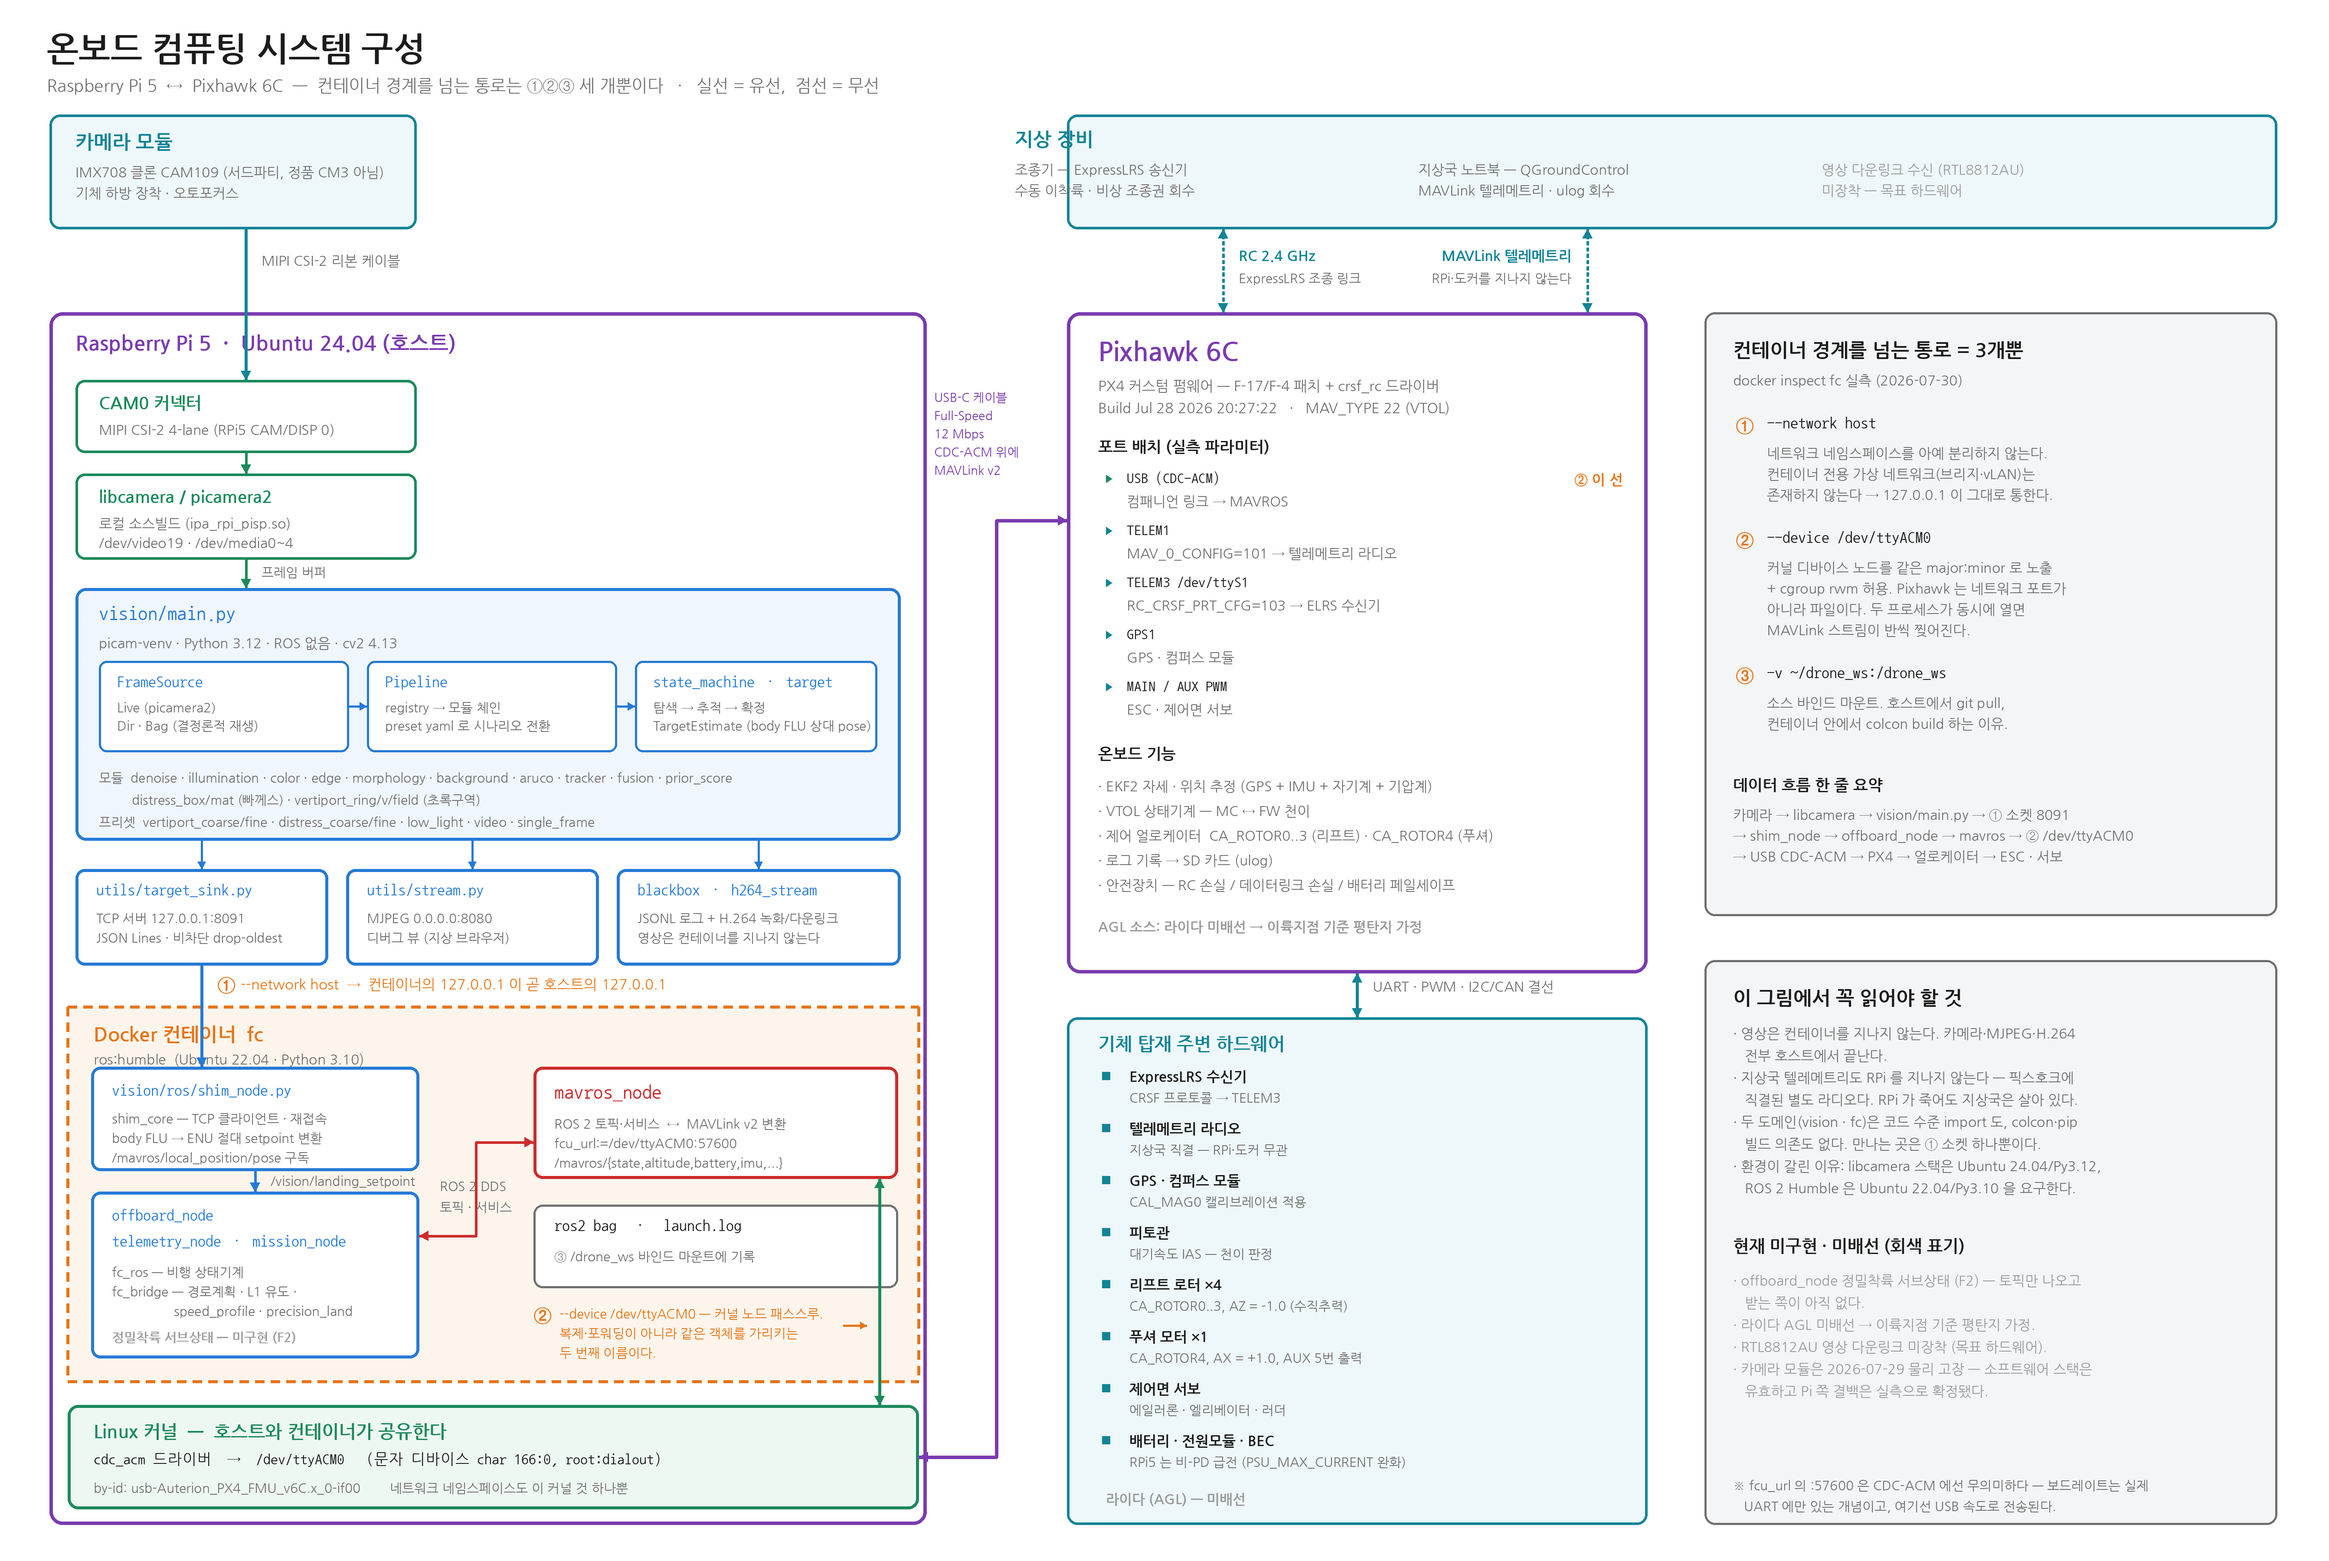
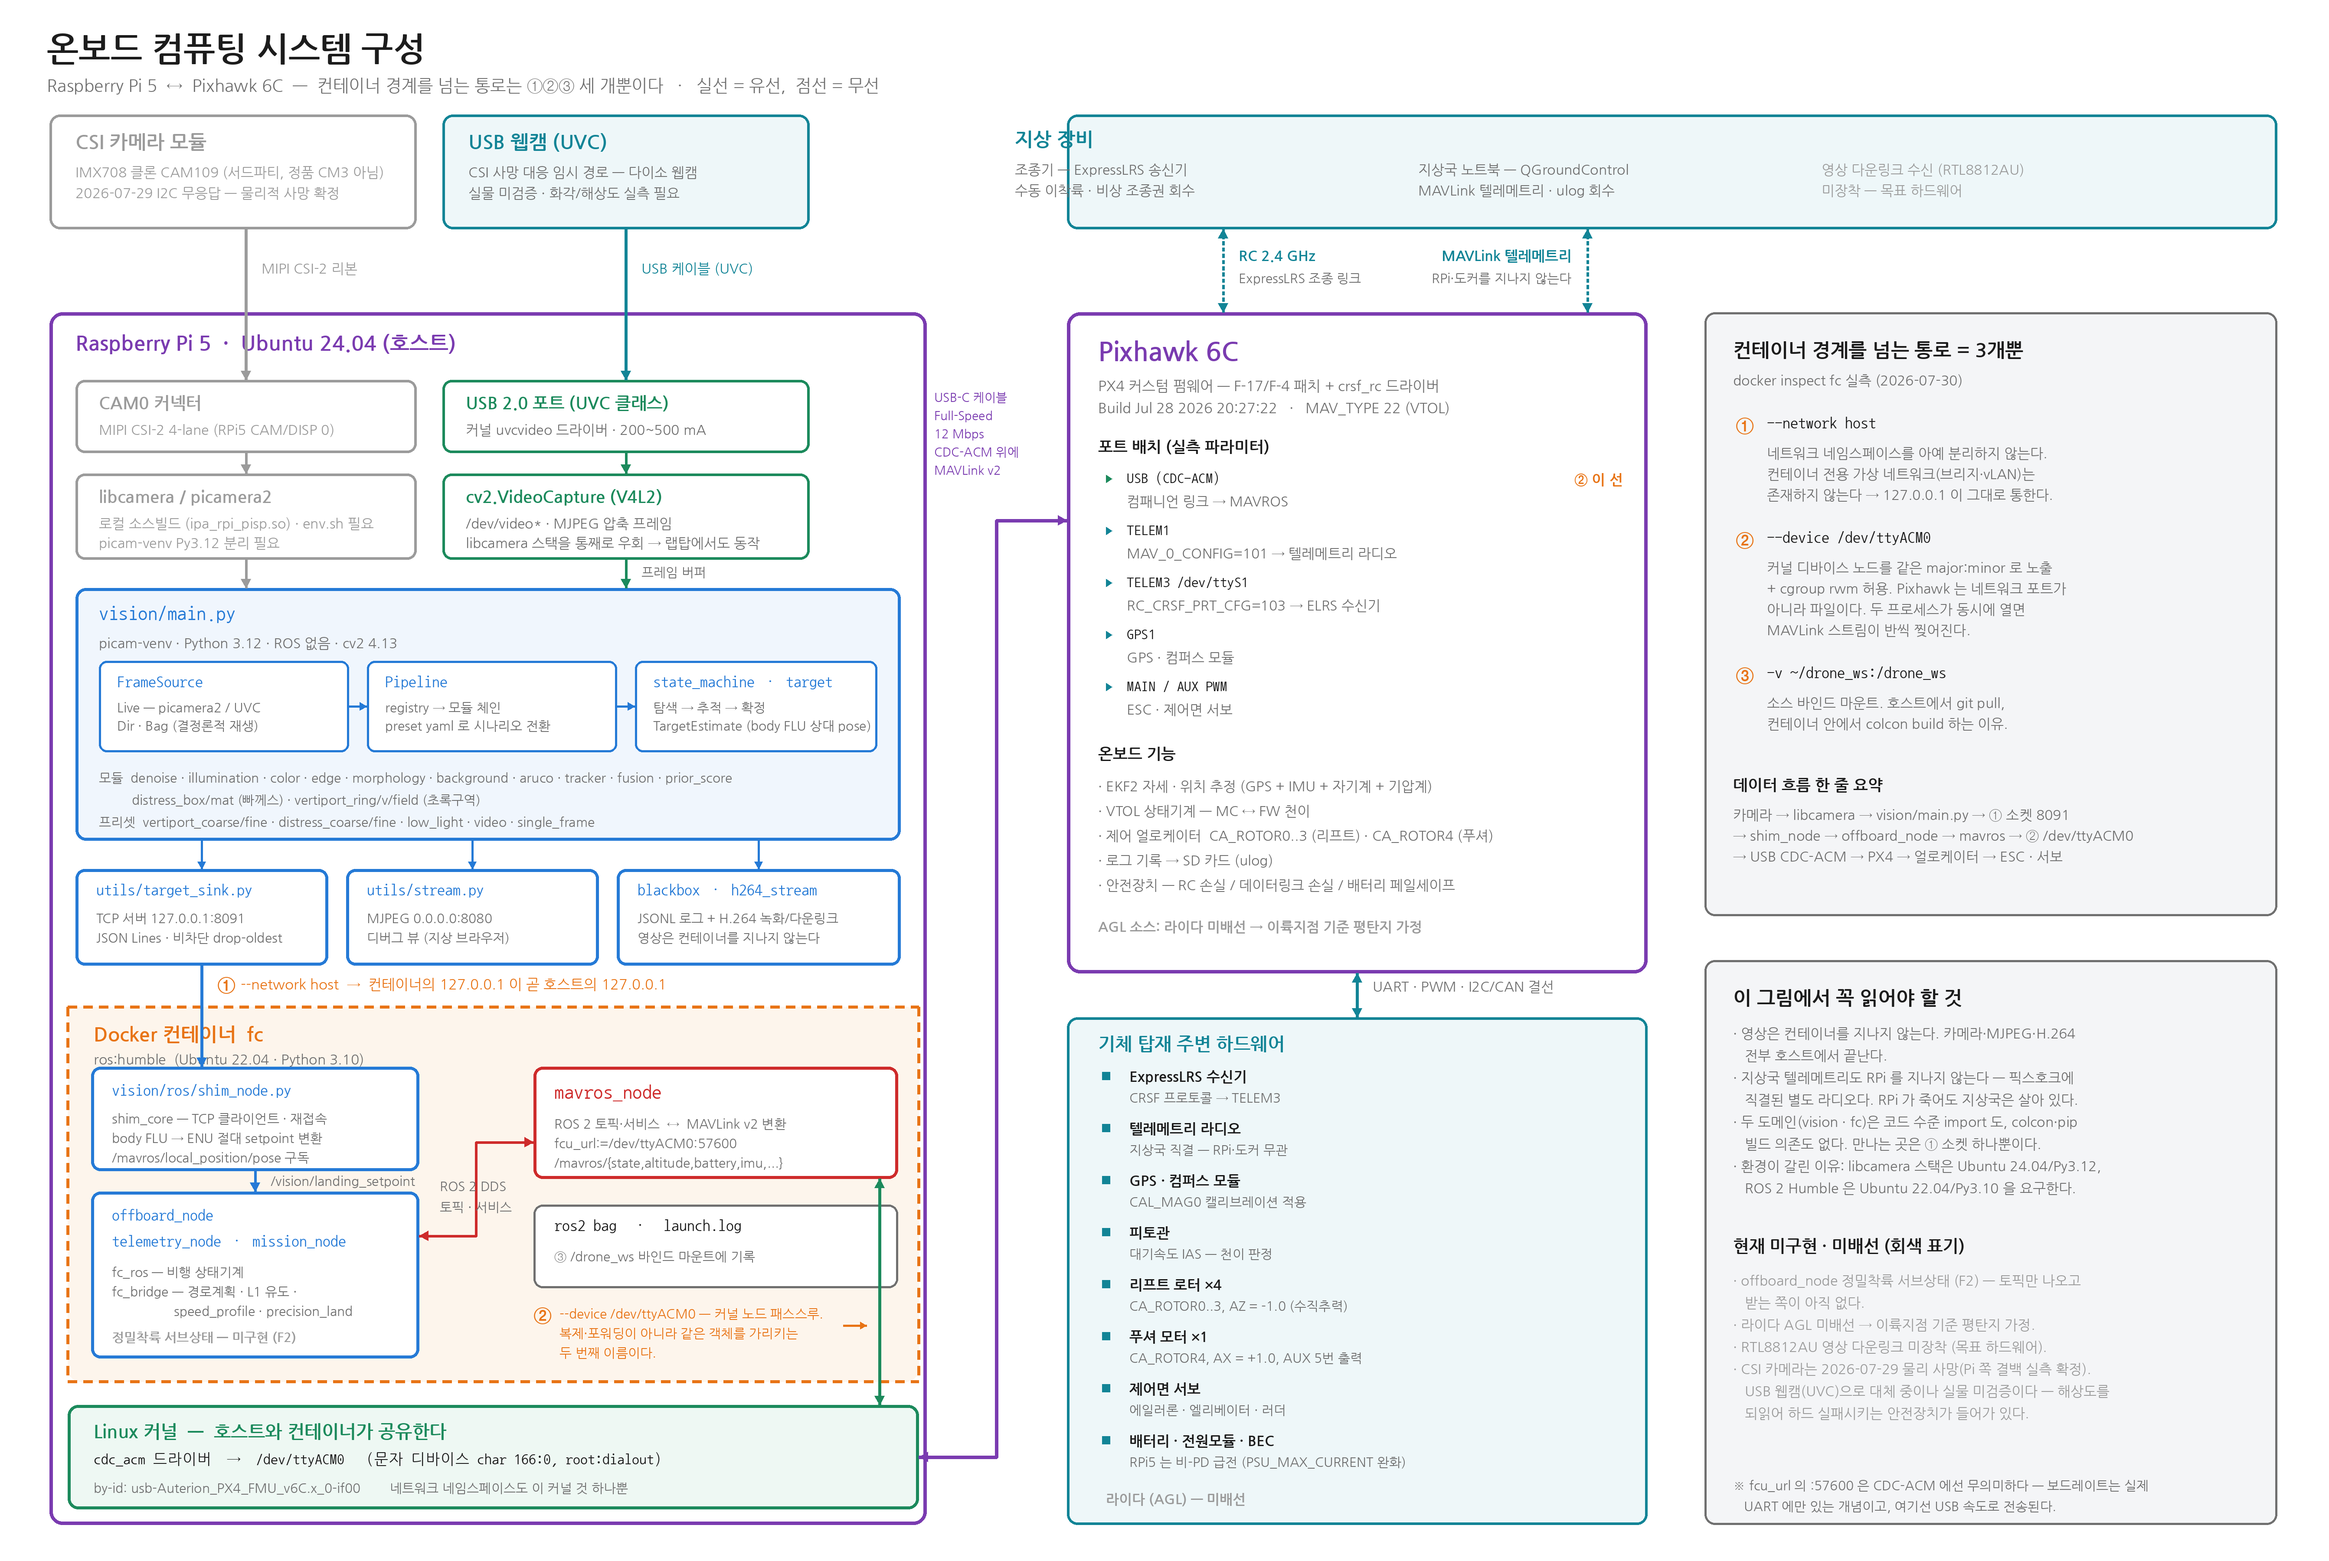
[main] 구성도에 카메라 두 경로 반영 — CSI 사망 / UVC 웹캠 대체
b201a27(병렬 세션)이 커밋한 USB 웹캠 임시 경로를 구성도에 반영한다.
카메라를 한 줄기로 그려두면 오늘 시점의 실제 구성과 어긋난다.

- CSI 경로(회색·비활성): CSI 카메라 모듈 → CAM0 커넥터(MIPI CSI-2 4-lane)
  → libcamera/picamera2. 2026-07-29 I2C 무응답 물리 사망.
- UVC 경로(활성): USB 웹캠 → USB 2.0 포트(uvcvideo) → cv2.VideoCapture
  → /dev/video*. libcamera 스택을 통째로 우회하므로 ipa_rpi_pisp.so
  소스빌드·env.sh·picam-venv 분리가 전부 해당 없고 랩탑에서도 돈다.
- 두 경로 모두 FrameSource 로 수렴한다(Live — picamera2 / UVC).
- 노트에 "실물 웹캠 미검증 + 해상도 되읽기 하드 실패 안전장치" 명시.

diff --git a/tools/report/build_system_diagram.py b/tools/report/build_system_diagram.py
@@ -179,11 +179,14 @@ def _dashes(a: float, b: float, dash: float, gap: float):
 
 # ── 기하 (1x 픽셀) ──────────────────────────────────────────────────────────
 CAM_HW = (38, 88, 320, 176)
+UVC_HW = (340, 88, 622, 176)
 GROUND = (820, 88, 1750, 176)
 
 RPI = (38, 240, 712, 1172)
 CAM0 = (58, 292, 320, 348)
 LIBCAM = (58, 364, 320, 430)
+USBP = (340, 292, 622, 348)
+V4L2 = (340, 364, 622, 430)
 VISION = (58, 452, 692, 646)
 V_SRC = (76, 508, 268, 578)
 V_PIPE = (282, 508, 474, 578)
@@ -216,16 +219,30 @@ def draw(pen: Pen) -> None:
         13,
     )
 
-    # ── 기체 외부: 카메라 모듈 ───────────────────────────────────────────────
-    pen.fill(CAM_HW, WASH_TEAL)
-    pen.box(CAM_HW, TEAL, 2.0, 8)
-    pen.text((58, 100), "카메라 모듈", TEAL, 15, bold=True)
+    # ── 기체 외부: 카메라 두 경로 (CSI 사망 → UVC 대체) ─────────────────────
+    pen.box(CAM_HW, MUTE, 2.0, 8)
+    pen.text((58, 100), "CSI 카메라 모듈", MUTE, 15, bold=True)
     pen.lines(
         [
             "IMX708 클론 CAM109 (서드파티, 정품 CM3 아님)",
-            "기체 하방 장착 · 오토포커스",
+            "2026-07-29 I2C 무응답 — 물리적 사망 확정",
         ],
         58,
+        126,
+        MUTE,
+        10.5,
+        lead=16,
+    )
+
+    pen.fill(UVC_HW, WASH_TEAL)
+    pen.box(UVC_HW, TEAL, 2.0, 8)
+    pen.text((360, 100), "USB 웹캠 (UVC)", TEAL, 15, bold=True)
+    pen.lines(
+        [
+            "CSI 사망 대응 임시 경로 — 다이소 웹캠",
+            "실물 미검증 · 화각/해상도 실측 필요",
+        ],
+        360,
         126,
         GRAY,
         10.5,
@@ -267,15 +284,33 @@ def draw(pen: Pen) -> None:
         (58, 254), "Raspberry Pi 5  ·  Ubuntu 24.04 (호스트)", PURPLE, 16, bold=True
     )
 
-    pen.box(CAM0, GREEN, 2.0, 7)
-    pen.text((76, 302), "CAM0 커넥터", GREEN, 13, bold=True)
-    pen.text((76, 324), "MIPI CSI-2 4-lane (RPi5 CAM/DISP 0)", GRAY, 10.5)
+    pen.box(CAM0, MUTE, 2.0, 7)
+    pen.text((76, 302), "CAM0 커넥터", MUTE, 13, bold=True)
+    pen.text((76, 324), "MIPI CSI-2 4-lane (RPi5 CAM/DISP 0)", MUTE, 10.5)
 
-    pen.box(LIBCAM, GREEN, 2.0, 7)
-    pen.text((76, 374), "libcamera / picamera2", GREEN, 13, bold=True)
+    pen.box(LIBCAM, MUTE, 2.0, 7)
+    pen.text((76, 374), "libcamera / picamera2", MUTE, 13, bold=True)
     pen.lines(
-        ["로컬 소스빌드 (ipa_rpi_pisp.so)", "/dev/video19 · /dev/media0~4"],
+        ["로컬 소스빌드 (ipa_rpi_pisp.so) · env.sh 필요", "picam-venv Py3.12 분리 필요"],
         76,
+        396,
+        MUTE,
+        10.5,
+        lead=15,
+    )
+
+    pen.box(USBP, GREEN, 2.0, 7)
+    pen.text((358, 302), "USB 2.0 포트 (UVC 클래스)", GREEN, 13, bold=True)
+    pen.text((358, 324), "커널 uvcvideo 드라이버 · 200~500 mA", GRAY, 10.5)
+
+    pen.box(V4L2, GREEN, 2.0, 7)
+    pen.text((358, 374), "cv2.VideoCapture (V4L2)", GREEN, 13, bold=True)
+    pen.lines(
+        [
+            "/dev/video* · MJPEG 압축 프레임",
+            "libcamera 스택을 통째로 우회 → 랩탑에서도 동작",
+        ],
+        358,
         396,
         GRAY,
         10.5,
@@ -293,7 +328,7 @@ def draw(pen: Pen) -> None:
     pen.box(V_SRC, BLUE, 1.8, 6, fill=BG)
     pen.text((90, 518), "FrameSource", BLUE, 12, bold=True, mono=True)
     pen.lines(
-        ["Live (picamera2)", "Dir · Bag (결정론적 재생)"], 90, 538, GRAY, 10, lead=14
+        ["Live — picamera2 / UVC", "Dir · Bag (결정론적 재생)"], 90, 538, GRAY, 10, lead=14
     )
 
     pen.box(V_PIPE, BLUE, 1.8, 6, fill=BG)
@@ -519,12 +554,17 @@ def draw(pen: Pen) -> None:
     pen.text((850, 1146), "라이다 (AGL) — 미배선", MUTE, 10.5, bold=True)
 
     # ── 연결선 ──────────────────────────────────────────────────────────────
-    cx = 189  # 좌측 컬럼 중심
-    pen.arrow([(cx, CAM_HW[3]), (cx, CAM0[1])], TEAL, 2.2)
-    pen.text((cx + 12, 194), "MIPI CSI-2 리본 케이블", GRAY, 10.5)
-    pen.arrow([(cx, CAM0[3]), (cx, LIBCAM[1])], GREEN, 2.0)
-    pen.arrow([(cx, LIBCAM[3]), (cx, VISION[1])], GREEN, 2.0)
-    pen.text((cx + 12, 434), "프레임 버퍼", GRAY, 10)
+    cx, ux = 189, 481  # CSI 열 / UVC 열 중심
+    pen.arrow([(cx, CAM_HW[3]), (cx, CAM0[1])], MUTE, 2.2)
+    pen.text((cx + 12, 200), "MIPI CSI-2 리본", MUTE, 10.5)
+    pen.arrow([(cx, CAM0[3]), (cx, LIBCAM[1])], MUTE, 2.0)
+    pen.arrow([(cx, LIBCAM[3]), (cx, VISION[1])], MUTE, 2.0)
+
+    pen.arrow([(ux, UVC_HW[3]), (ux, USBP[1])], TEAL, 2.2)
+    pen.text((ux + 12, 200), "USB 케이블 (UVC)", TEAL, 10.5)
+    pen.arrow([(ux, USBP[3]), (ux, V4L2[1])], GREEN, 2.0)
+    pen.arrow([(ux, V4L2[3]), (ux, VISION[1])], GREEN, 2.0)
+    pen.text((ux + 12, 434), "프레임 버퍼", GRAY, 10)
 
     # vision 내부 파이프라인
     pen.arrow([(V_SRC[2], 543), (V_PIPE[0], 543)], BLUE, 1.8, head=5.5)
@@ -686,8 +726,9 @@ def draw(pen: Pen) -> None:
             "   받는 쪽이 아직 없다.",
             "· 라이다 AGL 미배선 → 이륙지점 기준 평탄지 가정.",
             "· RTL8812AU 영상 다운링크 미장착 (목표 하드웨어).",
-            "· 카메라 모듈은 2026-07-29 물리 고장 — 소프트웨어 스택은",
-            "   유효하고 Pi 쪽 결백은 실측으로 확정됐다.",
+            "· CSI 카메라는 2026-07-29 물리 사망(Pi 쪽 결백 실측 확정).",
+            "   USB 웹캠(UVC)으로 대체 중이나 실물 미검증이다 — 해상도를",
+            "   되읽어 하드 실패시키는 안전장치가 들어가 있다.",
         ],
         1332,
         978,
